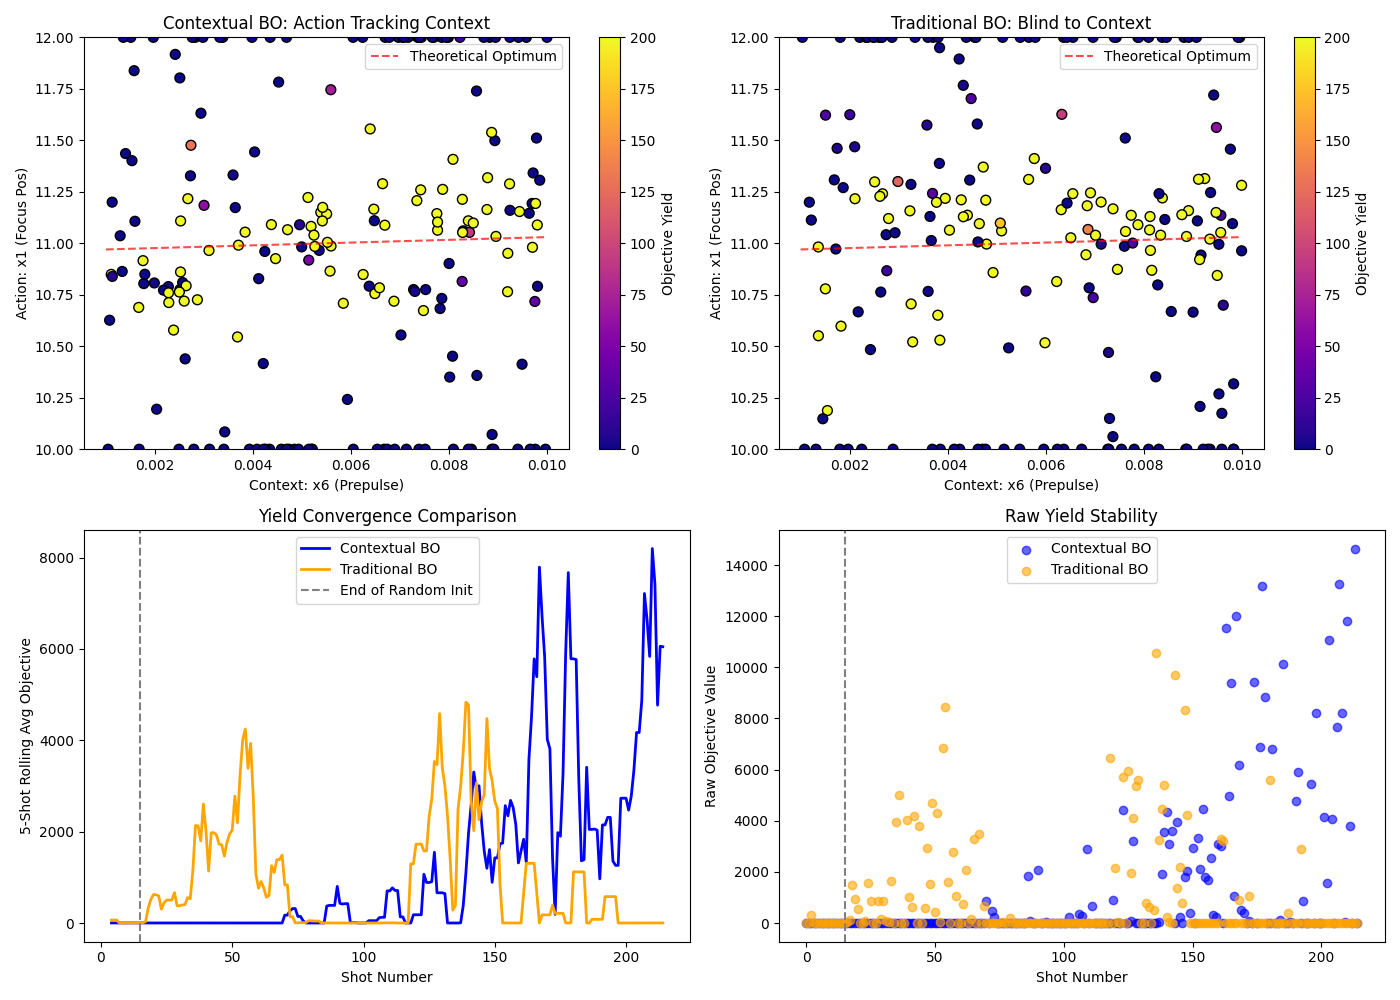
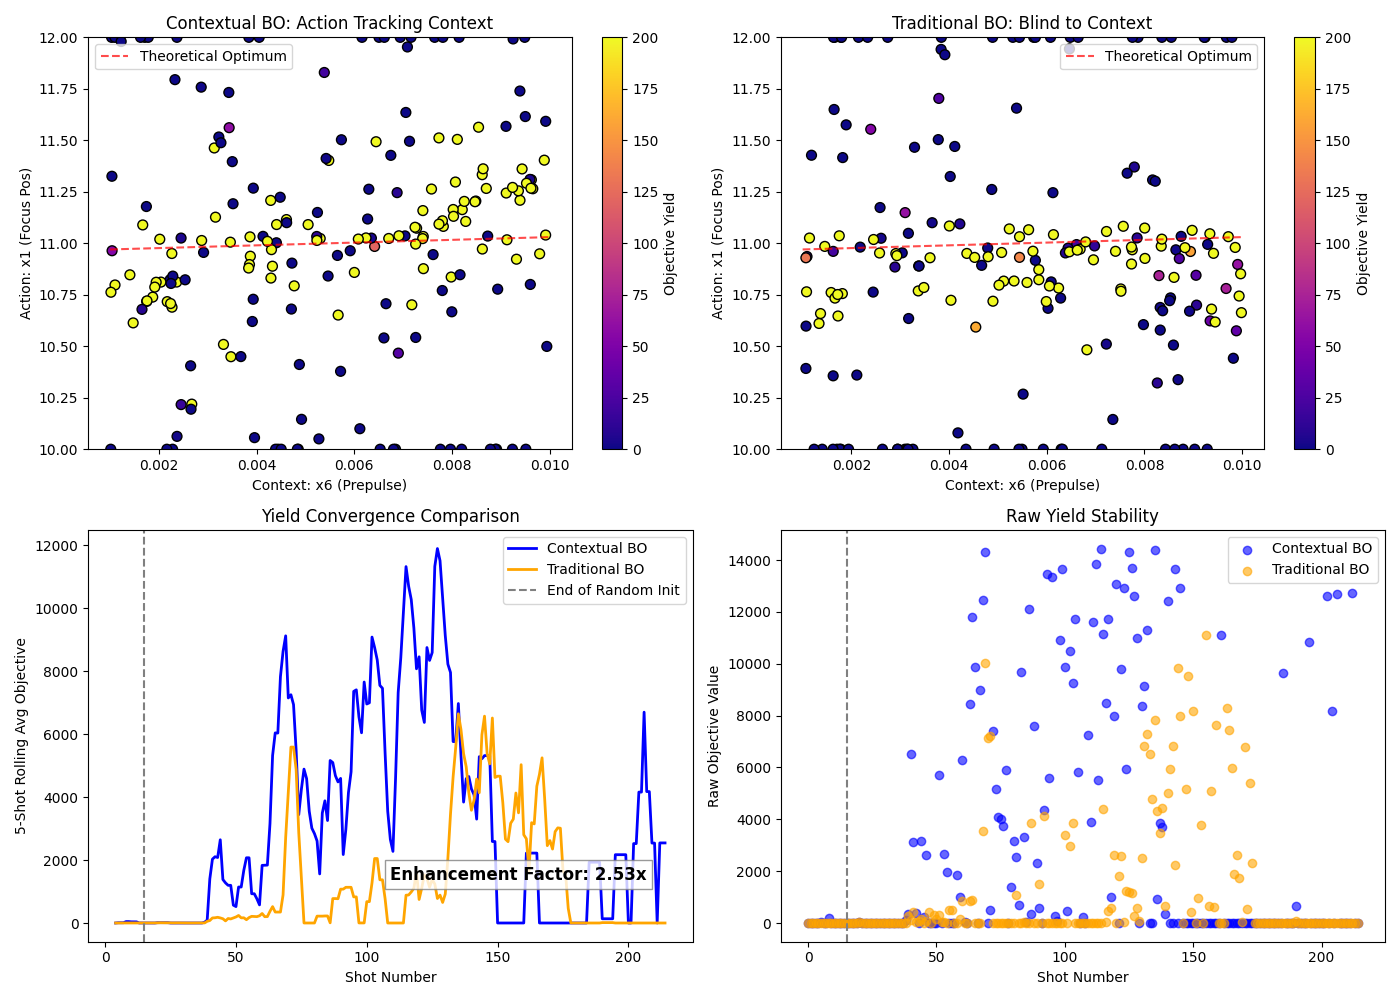
Rename Contextual BO to Environment-Aware BO (EA-BO)

diff --git a/example/EABO-test.py b/example/EABO-test.py
@@ -15,7 +15,7 @@ from lib.BayesianOptimization import suggest_next_params_bo
 from dummy_npz_generator import obj, input_bounds
 
 def run_test(use_context=True):
-    print(f"--- Running Test (CBO={'ON' if use_context else 'OFF'}) ---")
+    print(f"--- Running Test (EA-BO={'ON' if use_context else 'OFF'}) ---")
     
     # 1. Setup
     context_cols = ["x6", "x7"] if use_context else []
@@ -49,7 +49,7 @@ def run_test(use_context=True):
         env_x6 = random.uniform(input_bounds["x6"][0], input_bounds["x6"][1])
         env_x7 = random.uniform(input_bounds["x7"][0], input_bounds["x7"][1])
         
-        # If CBO is ON, we pass the current context to the BO
+        # If EA-BO is ON, we pass the current context to the BO
         if use_context:
             current_context = {"x6": env_x6, "x7": env_x7}
         else:
@@ -92,18 +92,18 @@ if __name__ == "__main__":
     warnings.filterwarnings("ignore")
 
     # Run both tests
-    df_cbo = run_test(use_context=True)
+    df_eabo = run_test(use_context=True)
     df_trad = run_test(use_context=False)
 
     # Plotting
     fig, axes = plt.subplots(2, 2, figsize=(14, 10))
 
-    # --- Plot 1: CBO Active Tracking ---
-    bo_cbo = df_cbo.iloc[15:]
-    sc = axes[0, 0].scatter(bo_cbo["x6"], bo_cbo["x1"], c=bo_cbo["obj"], cmap='plasma', s=50, edgecolor='k', vmin=0, vmax=200)
+    # --- Plot 1: EA-BO Active Tracking ---
+    bo_eabo = df_eabo.iloc[15:]
+    sc = axes[0, 0].scatter(bo_eabo["x6"], bo_eabo["x1"], c=bo_eabo["obj"], cmap='plasma', s=50, edgecolor='k', vmin=0, vmax=200)
     axes[0, 0].set_xlabel("Context: x6 (Prepulse)")
     axes[0, 0].set_ylabel("Action: x1 (Focus Pos)")
-    axes[0, 0].set_title("Contextual BO: Action Tracking Context")
+    axes[0, 0].set_title("Environment-Aware BO: Action Tracking Context")
     plt.colorbar(sc, ax=axes[0, 0], label='Objective Yield')
 
     # Theoretical optimum line: dynamic_target[0] based on new logic
@@ -128,10 +128,10 @@ if __name__ == "__main__":
 
     # --- Plot 3: Rolling Average Objective ---
     window = 5
-    cbo_roll = df_cbo["obj"].rolling(window).mean()
+    eabo_roll = df_eabo["obj"].rolling(window).mean()
     trad_roll = df_trad["obj"].rolling(window).mean()
     
-    axes[1, 0].plot(cbo_roll, label="Contextual BO", color='blue', linewidth=2)
+    axes[1, 0].plot(eabo_roll, label="Environment-Aware BO", color='blue', linewidth=2)
     axes[1, 0].plot(trad_roll, label="Traditional BO", color='orange', linewidth=2)
     axes[1, 0].axvline(15, color='gray', linestyle='--', label='End of Random Init')
     axes[1, 0].set_xlabel("Shot Number")
@@ -140,7 +140,7 @@ if __name__ == "__main__":
     axes[1, 0].legend()
 
     # --- Plot 4: Scatter of Objectives ---
-    axes[1, 1].scatter(df_cbo.index, df_cbo["obj"], label="Contextual BO", alpha=0.6, color='blue')
+    axes[1, 1].scatter(df_eabo.index, df_eabo["obj"], label="Environment-Aware BO", alpha=0.6, color='blue')
     axes[1, 1].scatter(df_trad.index, df_trad["obj"], label="Traditional BO", alpha=0.6, color='orange')
     axes[1, 1].axvline(15, color='gray', linestyle='--')
     axes[1, 1].set_xlabel("Shot Number")
@@ -149,7 +149,26 @@ if __name__ == "__main__":
     axes[1, 1].legend()
 
     plt.tight_layout()
-    save_path = os.path.join(os.path.dirname(__file__), 'CBO_Comparison_Plot.png')
+    
+    # --- Enhancement Factor Analysis ---
+    avg_yield_eabo = df_eabo["obj"].iloc[15:].mean()
+    avg_yield_trad = df_trad["obj"].iloc[15:].mean()
+    enhancement_factor = avg_yield_eabo / avg_yield_trad if avg_yield_trad > 0 else float('inf')
+    
+    print("\n" + "="*45)
+    print(" Optimization Performance Analysis (BO Phase) ")
+    print("="*45)
+    print(f" Traditional BO Average Yield : {avg_yield_trad:.2f}")
+    print(f" Environment-Aware BO Average Yield  : {avg_yield_eabo:.2f}")
+    print(f" Enhancement Factor           : {enhancement_factor:.2f}x")
+    print("="*45 + "\n")
+
+    # Add text annotation to Plot 3 (Yield Convergence Comparison)
+    axes[1, 0].text(0.5, 0.15, f"Enhancement Factor: {enhancement_factor:.2f}x", 
+                    transform=axes[1, 0].transAxes, fontsize=12, fontweight='bold',
+                    bbox=dict(facecolor='white', alpha=0.8, edgecolor='gray'))
+
+    save_path = os.path.join(os.path.dirname(__file__), 'EABO_Comparison_Plot.png')
     plt.savefig(save_path)
     print(f"Plot saved to: {save_path}")
     # plt.show() # Disable show for headless execution

diff --git a/lib/BayesianOptimization.py b/lib/BayesianOptimization.py
@@ -138,7 +138,7 @@ def suggest_next_params_bo(
     mll = ExactMarginalLogLikelihood(gp.likelihood, gp)
     fit_gpytorch_mll(mll)
     
-    # 4. Contextual BO Logic
+    # 4. Environment-Aware BO Logic
     best_f = train_Y.max()
     EI = LogExpectedImprovement(gp, best_f=best_f, maximize=True)
     
@@ -150,7 +150,7 @@ def suggest_next_params_bo(
         return candidate.squeeze(0).tolist()
     
     else:
-        # --- Contextual BO ---
+        # --- Environment-Aware BO ---
         from botorch.acquisition import FixedFeatureAcquisitionFunction
         
         # Determine indices

diff --git a/example/dummy_npz_generator.py b/example/dummy_npz_generator.py
@@ -86,7 +86,7 @@ def _get_norm_dist(x):
     dynamic_target[0] = TARGET[0] + (c1_norm * drift_amplitude * x1_range)
     dynamic_target[1] = TARGET[1] + (c2_norm * drift_amplitude * x2_range)
 
-    # CRITICAL: To allow CBO to fully recover the yield, the environment variables (x6, x7)
+    # CRITICAL: To allow EA-BO to fully recover the yield, the environment variables (x6, x7)
     # should NOT penalize the distance directly. They only act as shift parameters!
     dynamic_target[5] = x_arr[5]
     dynamic_target[6] = x_arr[6]

diff --git a/example/sim-analysis.py b/example/sim-analysis.py
@@ -4,7 +4,7 @@ import numpy as np
 import matplotlib.pyplot as plt
 
 # Set file path (fill in the name of the CSV downloaded after simulation)
-CSV_PATH = os.path.join(os.path.dirname(__file__), 'CBO.csv')
+CSV_PATH = os.path.join(os.path.dirname(__file__), 'EABO.csv')
 
 # Load data (based on previous preview, the file seems to be tab-separated)
 # If loading fails, change sep='\t' to sep=','

diff --git a/README.md b/README.md
@@ -9,13 +9,13 @@ This repository contains a full-stack, closed-loop automated optimization system
 2. **TPAnalyzer**: Automatically processes Thomson Parabola images to calculate the energy spectrum and extract a scalar objective value.
 3. **ImageMonitor**: Provides live image feed and tools for defining Regions of Interest (ROI) and Zero Points for the TP Analyzer.
 4. **Google Sheets Integration**: Automatically logs experimental parameters and analysis results to a cloud spreadsheet for real-time monitoring and data backup.
-5. **Contextual BO Engine**: Powered by `BoTorch`, the system can ingest uncontrollable environmental variables (e.g., laser pointing, shot-to-shot energy) to dramatically reduce noise, offering both "Active Compensation (Known Context)" and "Robust Optimization (Unknown Context)".
+5. **Environment-Aware BO Engine**: Powered by `BoTorch`, the system can ingest uncontrollable environmental variables (e.g., laser pointing, shot-to-shot energy) to dramatically reduce noise, offering both "Active Compensation (Known Context)" and "Robust Optimization (Unknown Context)".
 6. **Dummy Simulation Generator (`dummy_npz_generator.py`)**: A built-in GUI to safely test the entire closed-loop system offline. It simulates complex physical environments (e.g., prepulse drift) and generates synthetic `.npz` analysis files that the optimizer can read, allowing algorithm validation without hardware access.
 
 ## Evolution of the Project
 - **v1.1.0 - v1.2.0**: The system was originally separated into `sim/` (Simulation/Dummy PVs) and `exp/` (Experimental Hardware PVs) modes to allow safe development without hardware access.
 - **v1.3.0**: Architecture flattened and optimized for production.
-- **v2.0.0 (Current)**: Core engine upgraded from `scikit-optimize` to `BoTorch`. Introduced Contextual Bayesian Optimization to handle uncontrollable experimental fluctuations.
+- **v2.0.0 (Current)**: Core engine upgraded from `scikit-optimize` to `BoTorch`. Introduced Environment-Aware Bayesian Optimization to handle uncontrollable experimental fluctuations.
 
 ## User Manual
 For detailed instructions on setting up the ROIs, connecting to EPICS, and running the automated closed-loop, please see the [User Manual (user_manual.md)](user_manual.md).

diff --git a/user_manual.md b/user_manual.md
@@ -133,12 +133,12 @@ Use this for continuous, unattended data processing.
     -   `Random`: Explores the parameter space randomly. Good for starting out.
     -   `Bayes`: The main optimization mode using the BoTorch engine.
     -   `Local`: Fine-tunes the search around the best point found so far.
-2.  **Contextual BO Modes:**
+2.  **Environment-Aware BO Modes:**
     -   **Unknown Context (Robust Mode):** If you cannot measure the context *before* the next shot fires, just run the optimizer as usual. The engine will perform Monte Carlo integration over the historical context distribution and suggest the most "robust" Action parameters.
     -   **Known Context (Active Mode):** If you can measure the context (e.g., via a prepulse monitor) before firing, ensure that your diagnostic automatically pushes a new row to Google Sheets containing ONLY the context values and shot number. When you click **"Update and Suggest"**, the GUI will automatically detect this pending row, read the known context, and actively suggest Action parameters tailored to compensate for that exact state!
 3.  **Get Suggestion:** Click **"Update and Suggest"**. The GUI will:
     -   Fetch the latest data (including Actions, Contexts, and Objectives) from Google Sheets.
-    -   Run the optimizer (standard or contextual).
+    -   Run the optimizer (standard or environment-aware).
     -   Display the **"Next Suggested Params"** and the **"Current Best"** found so far.
 3.  **Apply and Record:**
     -   Click **"Append Suggestion to Sheet"**. A confirmation box will appear, showing you which EPICS PVs will be updated.
